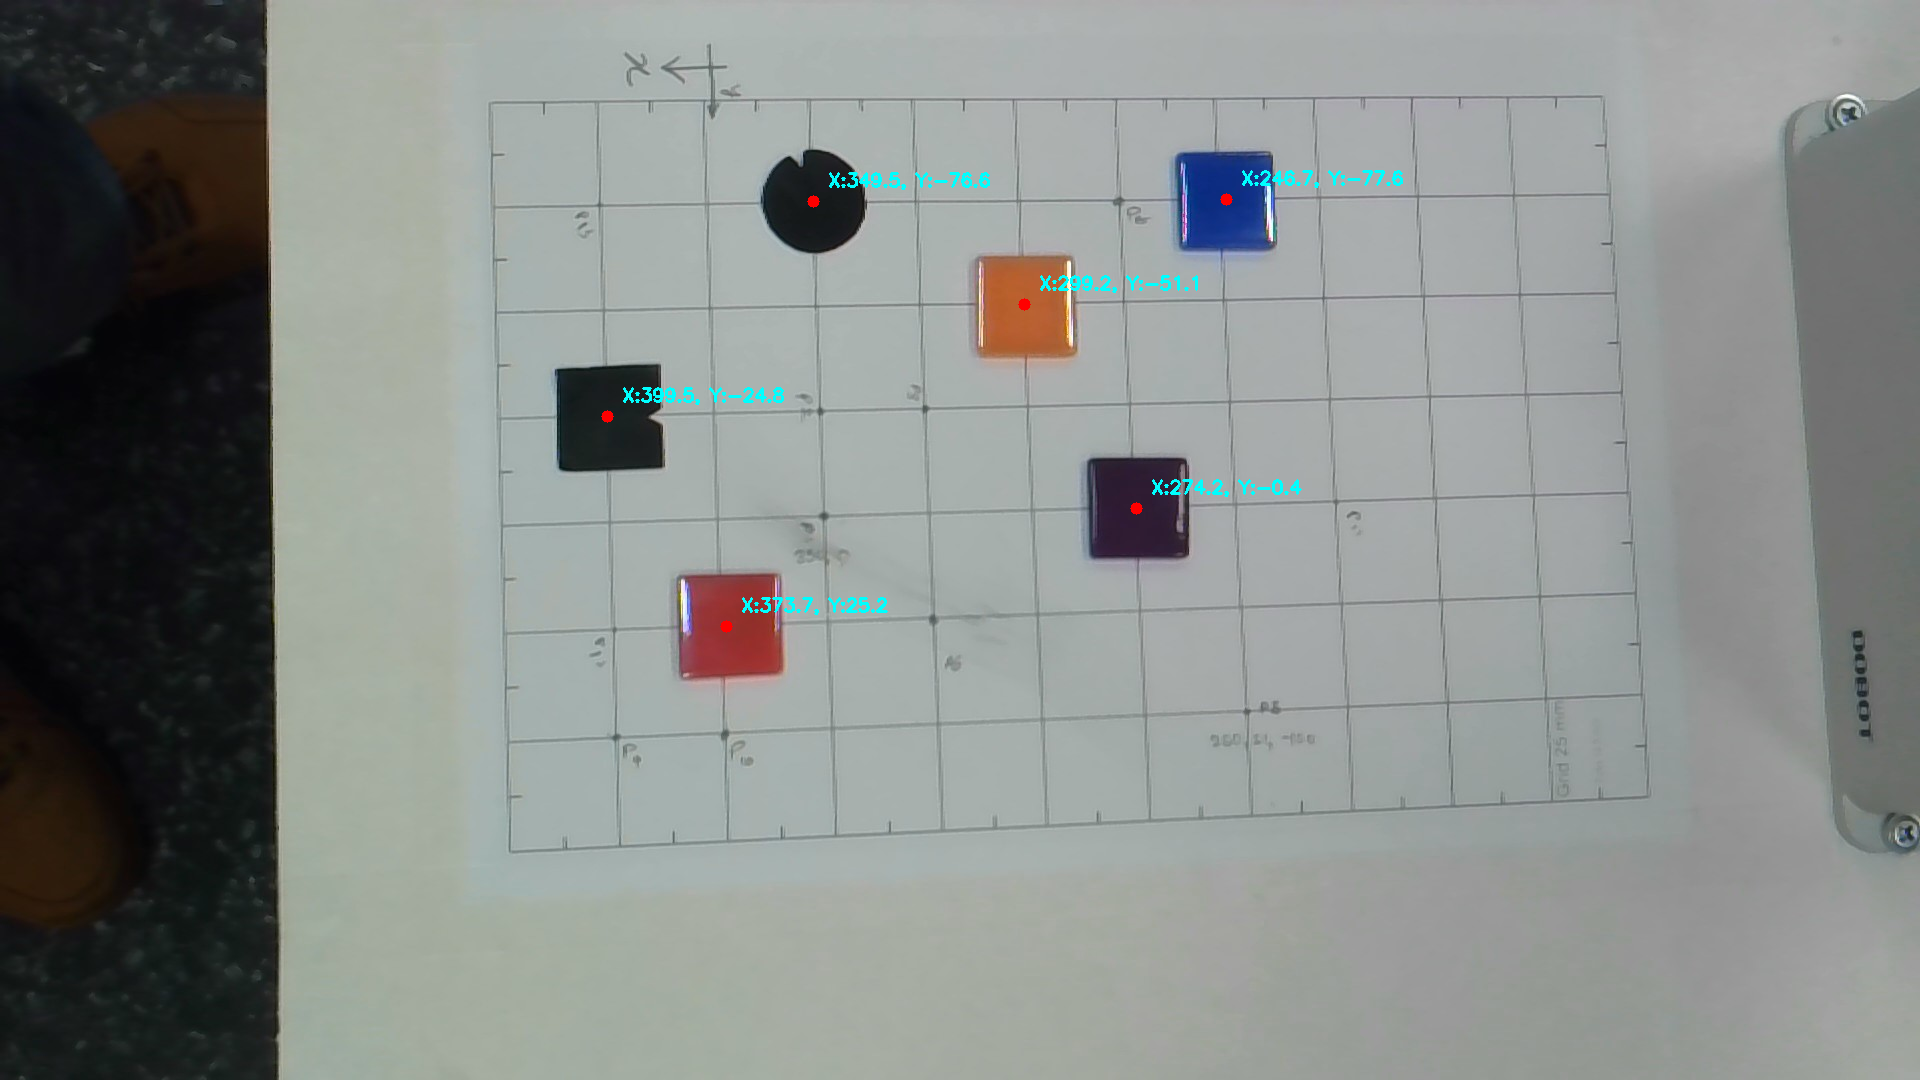
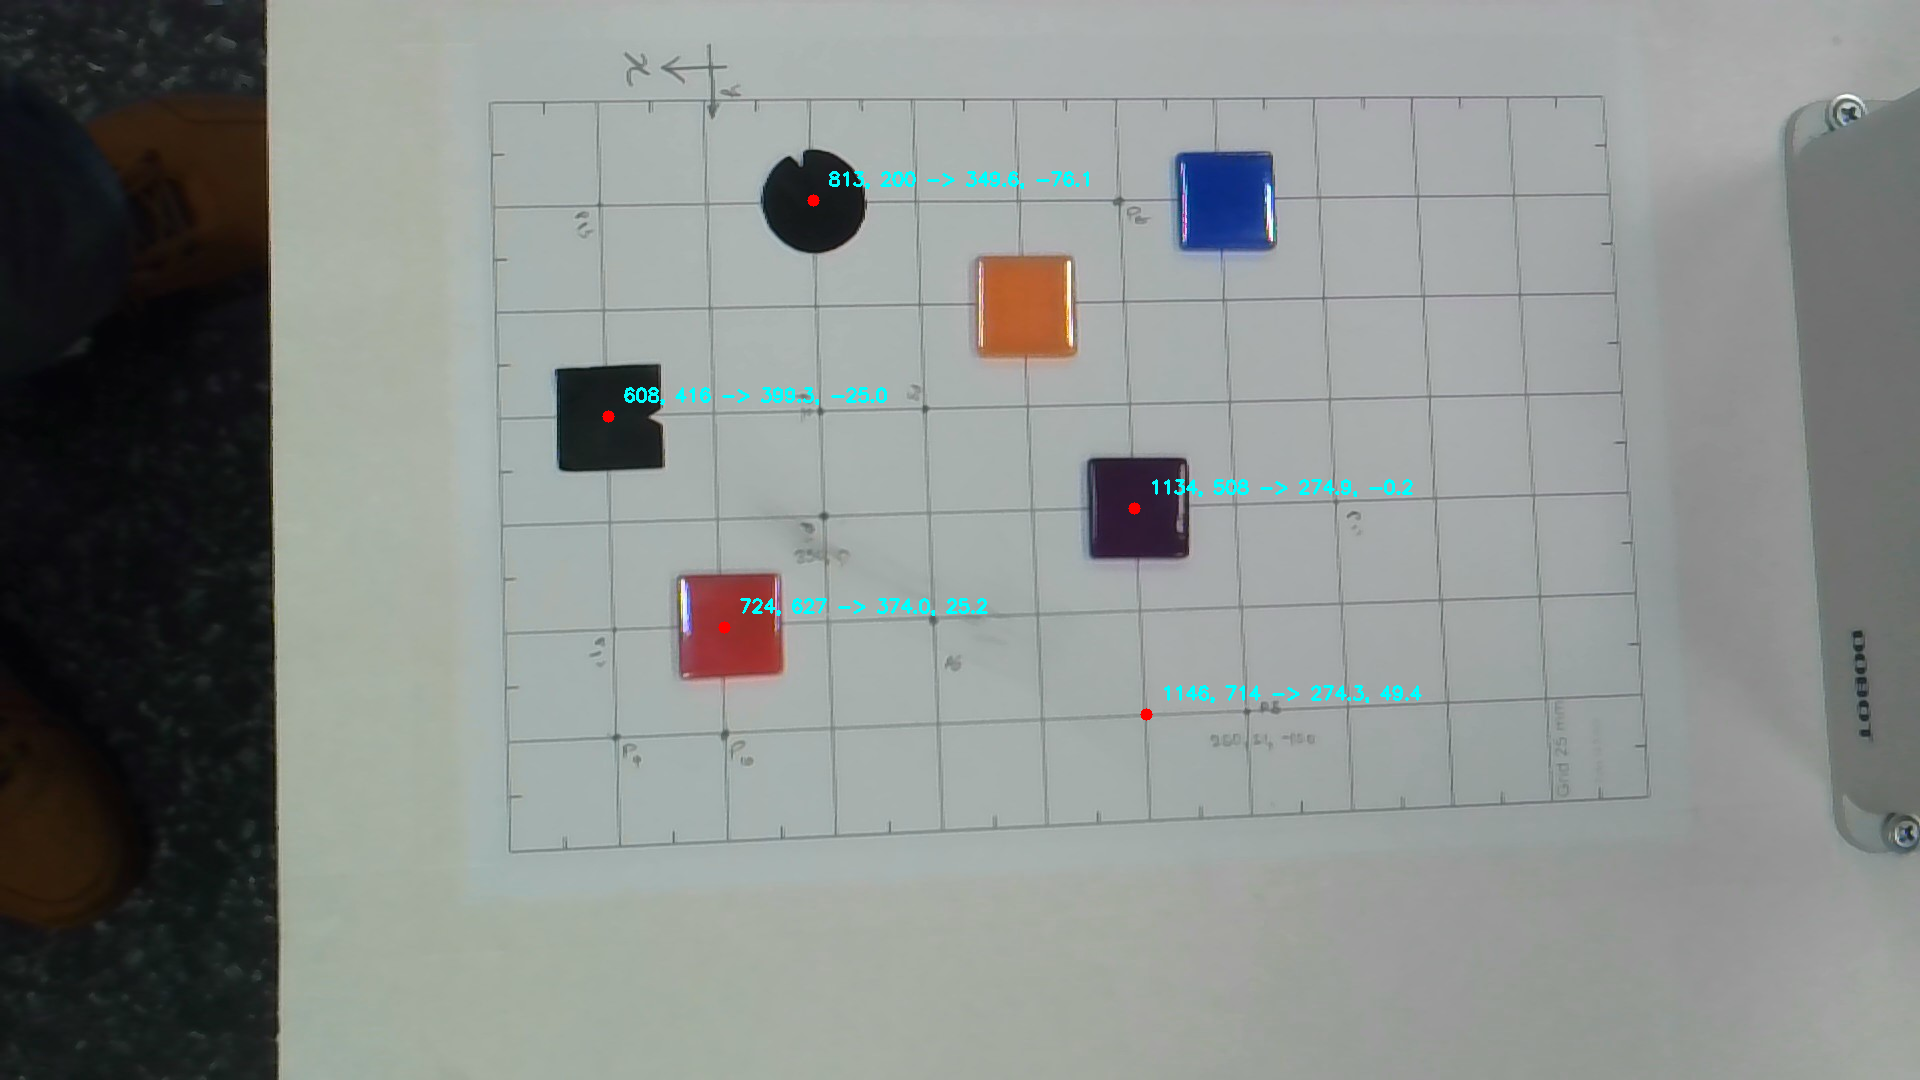
Fix code to save final image with pixels and robo cordinents

diff --git a/camera_robot_calibration.py b/camera_robot_calibration.py
@@ -90,7 +90,7 @@ def mouse_callback(event, u, v, flags, param):
 
         # Visual feedback on the image
         cv2.circle(img_display, (u, v), 6, (0, 0, 255), -1)
-        coord_text = f"X:{X_rob:.1f}, Y:{Y_rob:.1f}"
+        coord_text = f"{u}, {v} -> {X_rob:.1f}, {Y_rob:.1f}"
         cv2.putText(img_display, coord_text, (u + 15, v - 15),
                     cv2.FONT_HERSHEY_SIMPLEX, 0.6, (255, 255, 0), 2)
 
